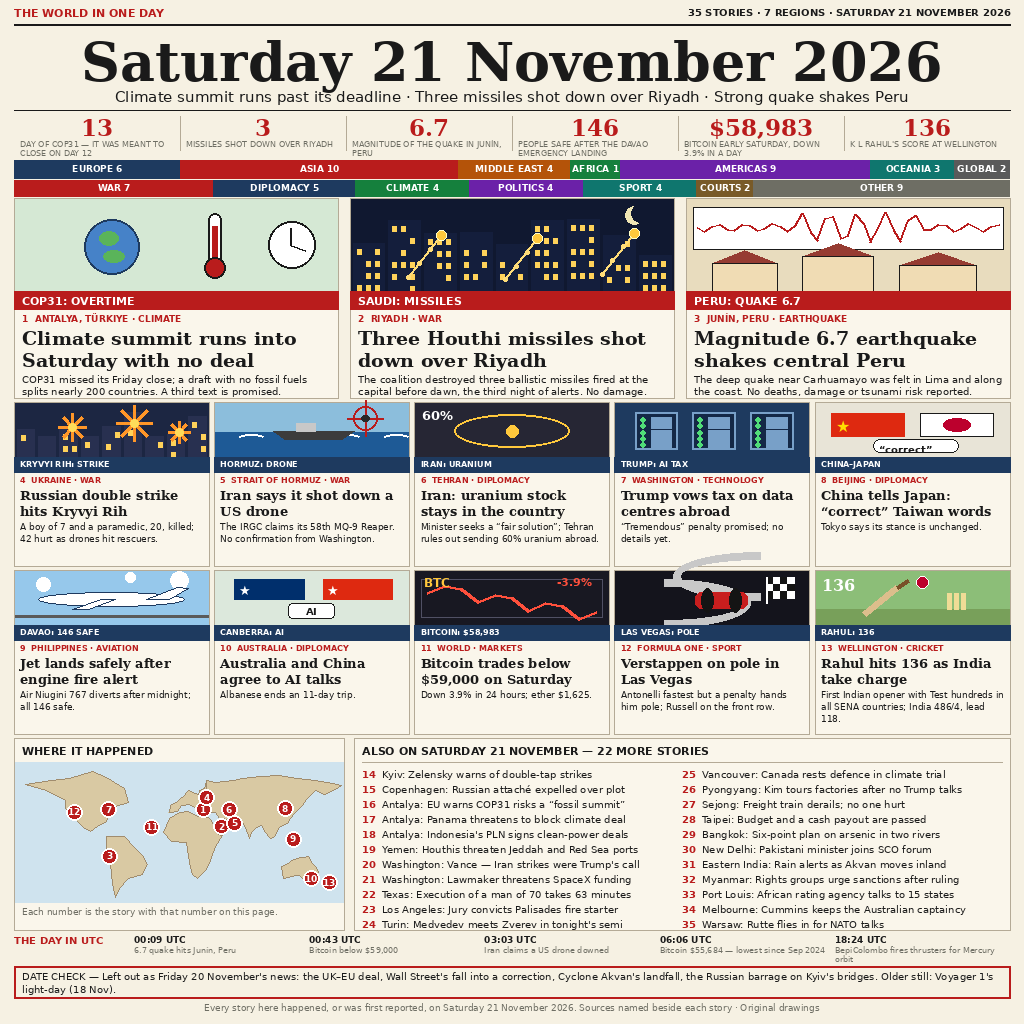
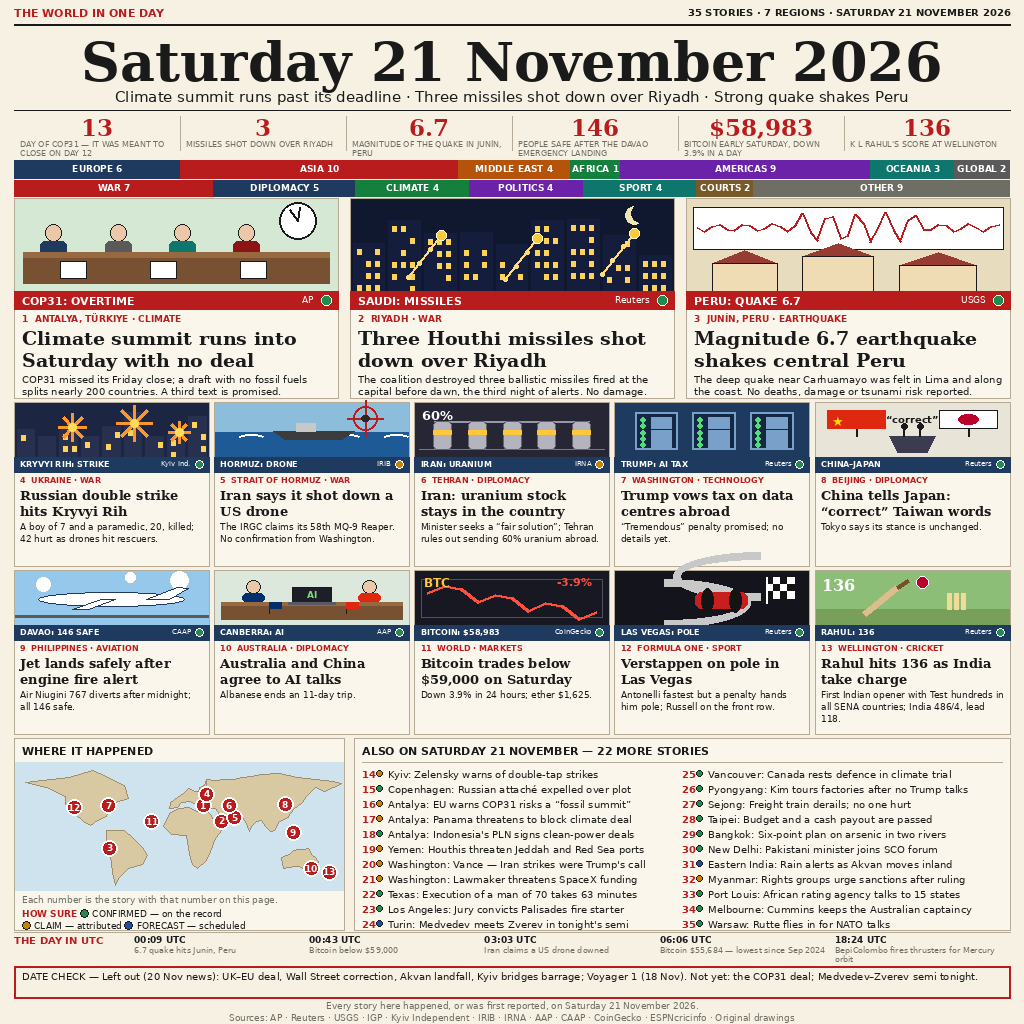
news-image-20261121 v2: literal scenes + HOW SURE legend + source tags
- Redraw 4 abstract illustrations as literal scenes: COP31 as a
  negotiation hall (delegates at a table, clock near midnight),
  uranium as a centrifuge hall, AI talks as a bilateral meeting
  (table, flags, laptop), China-Japan as a press conference
  (flags on poles, podium, microphones).
- HOW SURE legend (CONFIRMED green / CLAIM amber / FORECAST blue):
  status dot in every lead/medium kicker row and every ALSO line,
  explained under the map. Map shortened to fit the legend.
- Each card names its source in the kicker bar (AP, Reuters, USGS,
  Kyiv Ind., IRIB, IRNA, CAAP, AAP, CoinGecko).
- DATE CHECK now lists what is not yet as well as what was left out.
- Footer names the agencies. Timeline marked as a distinct strip.
- Same 35 stories, same story count; entry.png 1024x1024, 188924 bytes.

diff --git a/draw.py b/draw.py
@@ -9,6 +9,15 @@ was drawn: COP31 overtime (AP), three Houthi missiles over Riyadh
 the Davao emergency landing (CAAP/AP), the Australia-China AI dialogue
 (AAP), Bitcoin's slide (CoinGecko), Las Vegas qualifying (Reuters),
 Rahul's 136 (Reuters/ESPNcricinfo) and the rest.
+
+v2 (same 35 stories, execution only): COP31, uranium, AI-talks and
+China-Japan illustrations redrawn as literal scenes; a HOW SURE legend
+marks each card CONFIRMED / CLAIM / FORECAST (dots in the kicker rows
+and ALSO lines); each card names its source in the kicker bar; the
+DATE CHECK now lists what is not yet as well as what was left out;
+the footer names the agencies. Winner study: the 19 Nov top 3 all
+share a UTC timeline strip (v1 already has one), a DATE CHECK box,
+per-story status+source tags, a sources line and literal scenes.
 """
 import hashlib
 from PIL import Image, ImageDraw, ImageFont
@@ -228,20 +237,27 @@ def _skyline(d, x, y, w, h, base, color):
 
 
 def ill_cop31(d, x, y, w, h):
+    # v2: a literal negotiation hall — delegates at a long table under a
+    # wall clock near midnight (the summit in overtime), not icons.
     d.rectangle([x, y, x + w, y + h], fill=(213, 232, 212))
-    cx, cy, r = x + w * 0.30, y + h * 0.52, h * 0.30
-    d.ellipse([cx - r, cy - r, cx + r, cy + r], fill=(70, 130, 200), outline=NAVY, width=2)
-    d.ellipse([cx - r * 0.45, cy - r * 0.55, cx + r * 0.25, cy - r * 0.05], fill=(90, 180, 90))
-    d.ellipse([cx - r * 0.30, cy + r * 0.15, cx + r * 0.45, cy + r * 0.55], fill=(90, 180, 90))
-    tx = x + w * 0.60
-    d.rounded_rectangle([tx, y + h * 0.16, tx + 13, y + h * 0.70], radius=6,
-                        fill=(255, 255, 255), outline=INK, width=2)
-    d.rectangle([tx + 4, y + h * 0.30, tx + 9, y + h * 0.70], fill=RED)
-    d.ellipse([tx - 4, y + h * 0.64, tx + 17, y + h * 0.86], fill=RED, outline=INK, width=2)
-    kx, ky, kr = x + w * 0.86, y + h * 0.50, h * 0.26
+    # wall clock (overtime: hands near midnight)
+    kx, ky, kr = x + w * 0.88, y + h * 0.24, h * 0.20
     d.ellipse([kx - kr, ky - kr, kx + kr, ky + kr], fill=(255, 255, 255), outline=INK, width=2)
-    d.line([kx, ky, kx, ky - kr * 0.7], fill=INK, width=2)
-    d.line([kx, ky, kx + kr * 0.55, ky + kr * 0.25], fill=INK, width=2)
+    d.line([kx, ky, kx - kr * 0.45, ky - kr * 0.55], fill=INK, width=2)
+    d.line([kx, ky, kx + kr * 0.10, ky - kr * 0.75], fill=INK, width=2)
+    # four delegates behind the table
+    suits = [(30, 58, 95), (90, 90, 90), (15, 118, 110), (140, 20, 20)]
+    for i, col in enumerate(suits):
+        cx = x + w * (0.12 + i * 0.20)
+        d.ellipse([cx - 8, y + h * 0.28, cx + 8, y + h * 0.46], fill=(235, 200, 170), outline=INK, width=1)
+        d.rounded_rectangle([cx - 13, y + h * 0.46, cx + 13, y + h * 0.62], radius=5, fill=col)
+    # long negotiation table (covers the delegates' lower bodies)
+    d.rectangle([x + 8, y + h * 0.58, x + w - 8, y + h * 0.92], fill=(120, 80, 50))
+    d.rectangle([x + 8, y + h * 0.58, x + w - 8, y + h * 0.64], fill=(150, 105, 65))
+    # draft papers on the table
+    for i in range(3):
+        px = x + w * (0.14 + i * 0.28)
+        d.rectangle([px, y + h * 0.68, px + 26, y + h * 0.86], fill=(255, 255, 255), outline=INK, width=1)
 
 
 def ill_riyadh(d, x, y, w, h):
@@ -316,13 +332,20 @@ def ill_hormuz(d, x, y, w, h):
 
 
 def ill_uranium(d, x, y, w, h):
+    # v2: a literal centrifuge hall — rows of enrichment centrifuges
+    # with a connecting pipe, not a generic atom symbol.
     d.rectangle([x, y, x + w, y + h], fill=(38, 38, 52))
-    cx, cy = x + w * 0.5, y + h * 0.52
-    for a in (0, 60, 120):
-        d.arc([cx - w * 0.30, cy - h * 0.30, cx + w * 0.30, cy + h * 0.30],
-              a, a + 300, fill=(255, 200, 60), width=2)
-    d.ellipse([cx - 6, cy - 6, cx + 6, cy + 6], fill=(255, 200, 60))
     d.text((x + 6, y + 4), "60%", font=SANSB(13), fill=(255, 255, 255))
+    # connecting pipe along the top
+    d.line([x + w * 0.10, y + h * 0.34, x + w * 0.90, y + h * 0.34], fill=(150, 150, 170), width=2)
+    # floor line
+    d.line([x + 4, y + h * 0.86, x + w - 4, y + h * 0.86], fill=(120, 120, 140), width=1)
+    # five centrifuge cylinders
+    for i in range(5):
+        cx = x + w * (0.14 + i * 0.18)
+        d.rounded_rectangle([cx - 9, y + h * 0.34, cx + 9, y + h * 0.86], radius=4,
+                            fill=(180, 180, 190), outline=(100, 100, 110), width=1)
+        d.rectangle([cx - 9, y + h * 0.50, cx + 9, y + h * 0.58], fill=(255, 200, 60))
 
 
 def ill_datacentre(d, x, y, w, h):
@@ -338,20 +361,30 @@ def ill_datacentre(d, x, y, w, h):
 
 
 def ill_flags(d, x, y, w, h):
+    # v2: a literal press-conference scene — the two flags on poles
+    # flanking a podium with microphones, not two flat flags.
     d.rectangle([x, y, x + w, y + h], fill=(232, 228, 215))
-    # China flag
-    fx, fy, fw, fh = x + w * 0.08, y + h * 0.20, w * 0.38, h * 0.42
+    # China flag on a pole (left)
+    fx, fy, fw, fh = x + w * 0.06, y + h * 0.14, w * 0.30, h * 0.34
+    d.line([fx + fw / 2, fy, fx + fw / 2, y + h * 0.62], fill=INK, width=2)
     d.rectangle([fx, fy, fx + fw, fy + fh], fill=(222, 41, 16))
-    d.text((fx + 5, fy + 3), "★", font=SANSB(16), fill=(255, 222, 0))
-    # Japan flag
-    jx, jy = x + w * 0.54, y + h * 0.20
+    d.text((fx + 4, fy + 2), "★", font=SANSB(13), fill=(255, 222, 0))
+    # Japan flag on a pole (right)
+    jx, jy = x + w * 0.64, y + h * 0.14
+    d.line([jx + fw / 2, jy, jx + fw / 2, y + h * 0.62], fill=INK, width=2)
     d.rectangle([jx, jy, jx + fw, jy + fh], fill=(255, 255, 255), outline=INK, width=1)
     d.ellipse([jx + fw * 0.32, jy + fh * 0.22, jx + fw * 0.68, jy + fh * 0.78], fill=(188, 0, 45))
-    # speech bubble
-    bx, by = x + w * 0.30, y + h * 0.68
-    d.rounded_rectangle([bx, by, bx + w * 0.44, by + h * 0.24], radius=6,
-                        fill=(255, 255, 255), outline=INK, width=1)
-    d.text((bx + 5, by + 3), "“correct”", font=SANSB(10), fill=INK)
+    # the rebuke, small, above the podium
+    d.text((x + w * 0.50, y + h * 0.30), "“correct”", font=SANSB(10), fill=INK, anchor="mm")
+    # podium with microphones
+    px0 = x + w * 0.38
+    d.polygon([(px0, y + h * 0.62), (px0 + w * 0.24, y + h * 0.62),
+               (px0 + w * 0.20, y + h * 0.92), (px0 + w * 0.04, y + h * 0.92)],
+              fill=(60, 60, 80))
+    d.line([px0 + w * 0.08, y + h * 0.62, px0 + w * 0.08, y + h * 0.44], fill=INK, width=2)
+    d.line([px0 + w * 0.16, y + h * 0.62, px0 + w * 0.16, y + h * 0.44], fill=INK, width=2)
+    d.ellipse([px0 + w * 0.08 - 3, y + h * 0.44 - 3, px0 + w * 0.08 + 3, y + h * 0.44 + 3], fill=INK)
+    d.ellipse([px0 + w * 0.16 - 3, y + h * 0.44 - 3, px0 + w * 0.16 + 3, y + h * 0.44 + 3], fill=INK)
 
 
 def ill_plane(d, x, y, w, h):
@@ -370,18 +403,25 @@ def ill_plane(d, x, y, w, h):
 
 
 def ill_aitalks(d, x, y, w, h):
+    # v2: a literal bilateral meeting — two delegates at a table with
+    # their flags and a laptop, not two flat flags and a badge.
     d.rectangle([x, y, x + w, y + h], fill=(220, 232, 220))
-    # two small flags
-    for i, (col, star) in enumerate([((0, 47, 108), "★"), ((222, 41, 16), "★")]):
-        fx = x + w * (0.10 + i * 0.46)
-        d.rectangle([fx, y + h * 0.16, fx + w * 0.36, y + h * 0.52], fill=col)
-        d.text((fx + 4, y + h * 0.20), star, font=SANSB(13), fill=(255, 255, 255))
-    # AI badge
-    bx0, by0 = x + w * 0.38, y + h * 0.60
-    d.rounded_rectangle([bx0, by0, bx0 + w * 0.24, by0 + h * 0.28], radius=4,
-                        fill=(255, 255, 255), outline=INK, width=1)
-    d.text((bx0 + w * 0.12, by0 + h * 0.14), "AI", font=SANSB(10), fill=INK,
-           anchor="mm")
+    # two delegates behind the table
+    for cx, col in [(x + w * 0.20, (0, 47, 108)), (x + w * 0.80, (222, 41, 16))]:
+        d.ellipse([cx - 7, y + h * 0.18, cx + 7, y + h * 0.42], fill=(235, 200, 170), outline=INK, width=1)
+        d.rounded_rectangle([cx - 11, y + h * 0.42, cx + 11, y + h * 0.58], radius=4, fill=col)
+    # meeting table
+    d.rectangle([x + 6, y + h * 0.58, x + w - 6, y + h * 0.90], fill=(120, 80, 50))
+    d.rectangle([x + 6, y + h * 0.58, x + w - 6, y + h * 0.64], fill=(150, 105, 65))
+    # laptop in the centre, screen showing AI
+    lx0, ly0 = x + w * 0.40, y + h * 0.30
+    d.rectangle([lx0, ly0, lx0 + w * 0.20, ly0 + h * 0.28], fill=(30, 30, 40), outline=INK, width=1)
+    d.text((lx0 + w * 0.10, ly0 + h * 0.14), "AI", font=SANSB(9), fill=(120, 220, 120), anchor="mm")
+    d.rectangle([lx0 - 4, ly0 + h * 0.28, lx0 + w * 0.20 + 4, ly0 + h * 0.32], fill=(90, 90, 100))
+    # small table flags flanking the laptop
+    for fx, col in [(x + w * 0.28, (0, 47, 108)), (x + w * 0.68, (222, 41, 16))]:
+        d.line([fx, y + h * 0.58, fx, y + h * 0.78], fill=INK, width=1)
+        d.rectangle([fx, y + h * 0.58, fx + 12, y + h * 0.70], fill=col)
 
 
 def ill_bitcoin(d, x, y, w, h):
@@ -438,6 +478,47 @@ ILLS = {
     "aitalks": ill_aitalks, "bitcoin": ill_bitcoin, "f1": ill_f1,
     "cricket": ill_cricket,
 }
+
+# ---------------------------------------------------------------- how sure
+# v2: every pictured card carries a status dot in its kicker row (right
+# end) and every ALSO line carries one before its text, explained by the
+# legend under the map. CONFIRMED = it happened / is on the record.
+# CLAIM = attributed, not yet verified (#5 Hormuz: IRGC claims, US has
+# not confirmed; #6 uranium: Araghchi's stated position; #14, #16, #17,
+# #19, #20, #21, #32 are warnings, threats or assertions). FORECAST =
+# scheduled / expected (#24 Medvedev semi tonight; #31 rain alerts).
+HOW_SURE = {
+    1: "CONFIRMED", 2: "CONFIRMED", 3: "CONFIRMED", 4: "CONFIRMED",
+    5: "CLAIM", 6: "CLAIM", 7: "CONFIRMED", 8: "CONFIRMED",
+    9: "CONFIRMED", 10: "CONFIRMED", 11: "CONFIRMED", 12: "CONFIRMED",
+    13: "CONFIRMED", 14: "CLAIM", 15: "CONFIRMED", 16: "CLAIM",
+    17: "CLAIM", 18: "CONFIRMED", 19: "CLAIM", 20: "CLAIM",
+    21: "CLAIM", 22: "CONFIRMED", 23: "CONFIRMED", 24: "FORECAST",
+    25: "CONFIRMED", 26: "CONFIRMED", 27: "CONFIRMED", 28: "CONFIRMED",
+    29: "CONFIRMED", 30: "CONFIRMED", 31: "FORECAST", 32: "CLAIM",
+    33: "CONFIRMED", 34: "CONFIRMED", 35: "CONFIRMED",
+}
+HOW_SURE_COL = {
+    "CONFIRMED": (34, 139, 80),
+    "CLAIM": (200, 130, 0),
+    "FORECAST": (30, 80, 160),
+}
+
+
+# v2 (winner study): short source named in each card's kicker bar,
+# beside the HOW SURE dot — the winning broadsheets tag every card
+# with its status AND its source.
+SRC = {
+    1: "AP", 2: "Reuters", 3: "USGS", 4: "Kyiv Ind.", 5: "IRIB",
+    6: "IRNA", 7: "Reuters", 8: "Reuters", 9: "CAAP", 10: "AAP",
+    11: "CoinGecko", 12: "Reuters", 13: "Reuters",
+}
+
+
+def sure_dot(d, cx, cy, status, r=5, outline=(255, 255, 255)):
+    """HOW SURE marker: coloured dot, centre (cx, cy)."""
+    d.ellipse([cx - r, cy - r, cx + r, cy + r],
+              fill=HOW_SURE_COL[status], outline=outline, width=1)
 
 # ------------------------------------------------------------ world map
 CONTINENTS = [
@@ -546,6 +627,8 @@ def draw_page():
         ILLS[s["ill"]](d, x + 1, y + 1, lw - 2, 92)
         d.rectangle([x, y + 93, x + lw, y + 111], fill=RED)
         d.text((x + 8, y + 96), s["kicker"], font=SANSB(11), fill=(255, 255, 255))
+        d.text((x + lw - 24, y + 96), SRC[s["n"]], font=SANS(9), fill=(255, 255, 255), anchor="ra")
+        sure_dot(d, x + lw - 12, y + 102, HOW_SURE[s["n"]], r=5)
         d.text((x + 8, y + 115), f"{s['n']}  {s['loc']}", font=SANSB(9), fill=RED)
         block(d, x + 8, y + 129, lw - 16, s["head"], SERIFB(19),
               leading=22, max_lines=2)
@@ -563,6 +646,8 @@ def draw_page():
             ILLS[s["ill"]](d, x + 1, y + 1, mw - 2, 54)
             d.rectangle([x, y + 55, x + mw, y + 70], fill=NAVY)
             d.text((x + 6, y + 57), s["kicker"], font=SANSB(8), fill=(255, 255, 255))
+            d.text((x + mw - 18, y + 57), SRC[s["n"]], font=SANS(7), fill=(255, 255, 255), anchor="ra")
+            sure_dot(d, x + mw - 10, y + 62, HOW_SURE[s["n"]], r=4)
             d.text((x + 6, y + 73), f"{s['n']}  {s['loc']}", font=SANSB(8), fill=RED)
             block(d, x + 6, y + 85, mw - 12, s["head"], SERIFB(13),
                   leading=16, max_lines=2)
@@ -573,10 +658,27 @@ def draw_page():
     y = 738
     d.rectangle([M, y, M + 330, y + 192], fill=PAPER, outline=LINE, width=1)
     d.text((M + 8, y + 6), "WHERE IT HAPPENED", font=SANSB(11), fill=INK)
-    draw_map(d, M + 1, y + 24, 328, 140)
-    block(d, M + 8, y + 168, 314,
+    draw_map(d, M + 1, y + 24, 328, 128)
+    block(d, M + 8, y + 156, 314,
           "Each number is the story with that number on this page.",
-          SANS(9), fill=GREY, leading=11, max_lines=2)
+          SANS(9), fill=GREY, leading=11, max_lines=1)
+    # HOW SURE legend (v2): two lines under the map caption; the dots
+    # match the status dot in each lead/medium kicker row and ALSO line.
+    ly = y + 170
+    d.text((M + 8, ly), "HOW SURE", font=SANSB(9), fill=RED)
+    hx = M + 8 + SANSB(9).getlength("HOW SURE ")
+    d.ellipse([hx, ly + 1, hx + 8, ly + 9], fill=HOW_SURE_COL["CONFIRMED"],
+              outline=INK, width=1)
+    d.text((hx + 12, ly), "CONFIRMED — on the record", font=SANS(9), fill=INK)
+    ly += 12
+    hx = M + 8
+    d.ellipse([hx, ly + 1, hx + 8, ly + 9], fill=HOW_SURE_COL["CLAIM"],
+              outline=INK, width=1)
+    d.text((hx + 12, ly), "CLAIM — attributed", font=SANS(9), fill=INK)
+    hx += 12 + SANS(9).getlength("CLAIM — attributed ")
+    d.ellipse([hx, ly + 1, hx + 8, ly + 9], fill=HOW_SURE_COL["FORECAST"],
+              outline=INK, width=1)
+    d.text((hx + 12, ly), "FORECAST — scheduled", font=SANS(9), fill=INK)
 
     ax = M + 340
     d.rectangle([ax, y, W - M, y + 192], fill=PAPER, outline=LINE, width=1)
@@ -590,10 +692,12 @@ def draw_page():
         tx = ax + 8 + col * col2w
         ty = y + 30 + row * 15
         d.text((tx, ty), str(n), font=SANSB(10), fill=RED)
-        d.text((tx + 20, ty), txt, font=SANS(10), fill=INK)
+        sure_dot(d, tx + 17, ty + 5, HOW_SURE[n], r=3, outline=INK)
+        d.text((tx + 26, ty), txt, font=SANS(10), fill=INK)
 
-    # timeline
+    # timeline (v1 already has it; v2 marks it as a distinct strip)
     y = 934
+    d.line([(M, y - 2), (W - M, y - 2)], fill=LINE, width=1)
     d.text((M, y), "THE DAY IN UTC", font=SANSB(10), fill=RED)
     tw = (CW - 120) / 5
     for i, (t, label) in enumerate(TIMELINE):
@@ -602,20 +706,21 @@ def draw_page():
         block(d, tx, y + 11, tw - 8, label, SANS(8), fill=GREY,
               leading=9, max_lines=2)
 
-    # date check
+    # date check (v2: winners list what was left out AND what is not yet)
     y = 966
     d.rectangle([M, y, W - M, y + 32], outline=RED, width=2)
     block(d, M + 8, y + 4, CW - 16,
-          "DATE CHECK — Left out as Friday 20 November's news: the UK–EU deal, "
-          "Wall Street's fall into a correction, Cyclone Akvan's landfall, the "
-          "Russian barrage on Kyiv's bridges. Older still: Voyager 1's light-day "
-          "(18 Nov).",
+          "DATE CHECK — Left out (20 Nov news): UK–EU deal, Wall Street "
+          "correction, Akvan landfall, Kyiv bridges barrage; Voyager 1 "
+          "(18 Nov). Not yet: the COP31 deal; Medvedev–Zverev semi tonight.",
           SANS(10), fill=INK, leading=13, max_lines=2)
 
-    # footer
-    d.text((W // 2, 1002), "Every story here happened, or was first reported, on "
-           "Saturday 21 November 2026. Sources named beside each story · "
-           "Original drawings",
+    # footer (v2: winners name the agencies at the bottom)
+    d.text((W // 2, 1000), "Every story here happened, or was first reported, on "
+           "Saturday 21 November 2026.",
+           font=SANS(9), fill=GREY, anchor="ma")
+    d.text((W // 2, 1012), "Sources: AP · Reuters · USGS · IGP · Kyiv Independent · "
+           "IRIB · IRNA · AAP · CAAP · CoinGecko · ESPNcricinfo · Original drawings",
            font=SANS(9), fill=GREY, anchor="ma")
 
     return img
